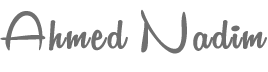
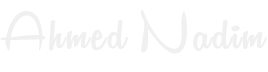
Create Sort Events

Changed region(s): [[0.5075, 0.1389, 1.0, 0.75], [0.0, 0.1389, 0.4776, 0.7222]]

diff --git a/script.js b/script.js
@@ -110,6 +110,8 @@ const confirmButton = document.querySelector(".form__btn--close");
 const summaryIn = document.querySelector(".summary__value--in");
 const summaryOut = document.querySelector(".summary__value--out");
 const summaryInterest = document.querySelector(".summary__value--interest");
+const sortDown = document.querySelector(".btn--sort--down");
+const sortUp = document.querySelector(".btn--sort--up");
 ////////////////////////////////////////
 
 ////////////////////////////////////////////////////////////////////////////////////////////////////////////////////////
@@ -298,4 +300,24 @@ loanButton.addEventListener("click", (e) => {
     displayCurrentBalance(currentUser);
     displayTotalDepositWithdrawInterest(currentUser);
   }
+});
+//////////////////////////////////////// ////////////////////////////////////////////////////////////////////////////////
+//======Sort Descending=======//
+sortDown.addEventListener("click", (e) => {
+  e.preventDefault();
+  currentUser.movements.sort((a, b) => (a > b ? 1 : -1));
+  movementsAll.textContent = "";
+  displayMovements(currentUser);
+  displayCurrentBalance(currentUser);
+  displayTotalDepositWithdrawInterest(currentUser);
+});
+//////////////////////////////////////// //////////////////////////////////////// ////////////////////////////////////////
+//======Sort Ascending======//
+sortUp.addEventListener("click", (e) => {
+  e.preventDefault();
+  currentUser.movements.sort((a, b) => (a > b ? -1 : 1));
+  movementsAll.textContent = "";
+  displayMovements(currentUser);
+  displayCurrentBalance(currentUser);
+  displayTotalDepositWithdrawInterest(currentUser);
 });

diff --git a/index.html b/index.html
@@ -89,7 +89,8 @@
           <p class="summary__value summary__value--out">0000€</p>
           <p class="summary__label">Interest</p>
           <p class="summary__value summary__value--interest">0000€</p>
-          <button class="btn--sort">&downarrow; SORT</button>
+          <button class="btn--sort--down">&downarrow; SORT</button>
+          <button class="btn--sort--up">&uparrow; SORT</button>
         </div>
 
         <!-- OPERATION: TRANSFERS -->
@@ -136,9 +137,7 @@
         </p>
       </main>
 
-      <!-- <footer>
-      &copy; by Jonas Schmedtmann. Don't claim as your own :)
-    </footer> -->
+      <!-- <footer><img src="images/Ahmed.png" alt="" /></footer> -->
 
       <script src="script.js"></script>
     </div>

diff --git a/style.css b/style.css
@@ -241,13 +241,19 @@ nav {
   color: #9ebbda;
 }
 
-.btn--sort {
+.btn--sort--up,
+.btn--sort--down {
   margin-left: auto;
   border: none;
   background: none;
   font-size: 1.3rem;
   font-weight: 500;
   cursor: pointer;
+  color: white;
+}
+
+.btn--sort--up {
+  margin-left: 10px;
 }
 
 /* OPERATIONS */
@@ -341,4 +347,17 @@ h2 {
 
 .timer {
   font-weight: 600;
+}
+
+footer {
+  color: white;
+  z-index: 3;
+  position: relative;
+  font-size: 10px;
+  bottom: -400px;
+  left: -800px;
+}
+
+footer img {
+  width: 180px;
 }
